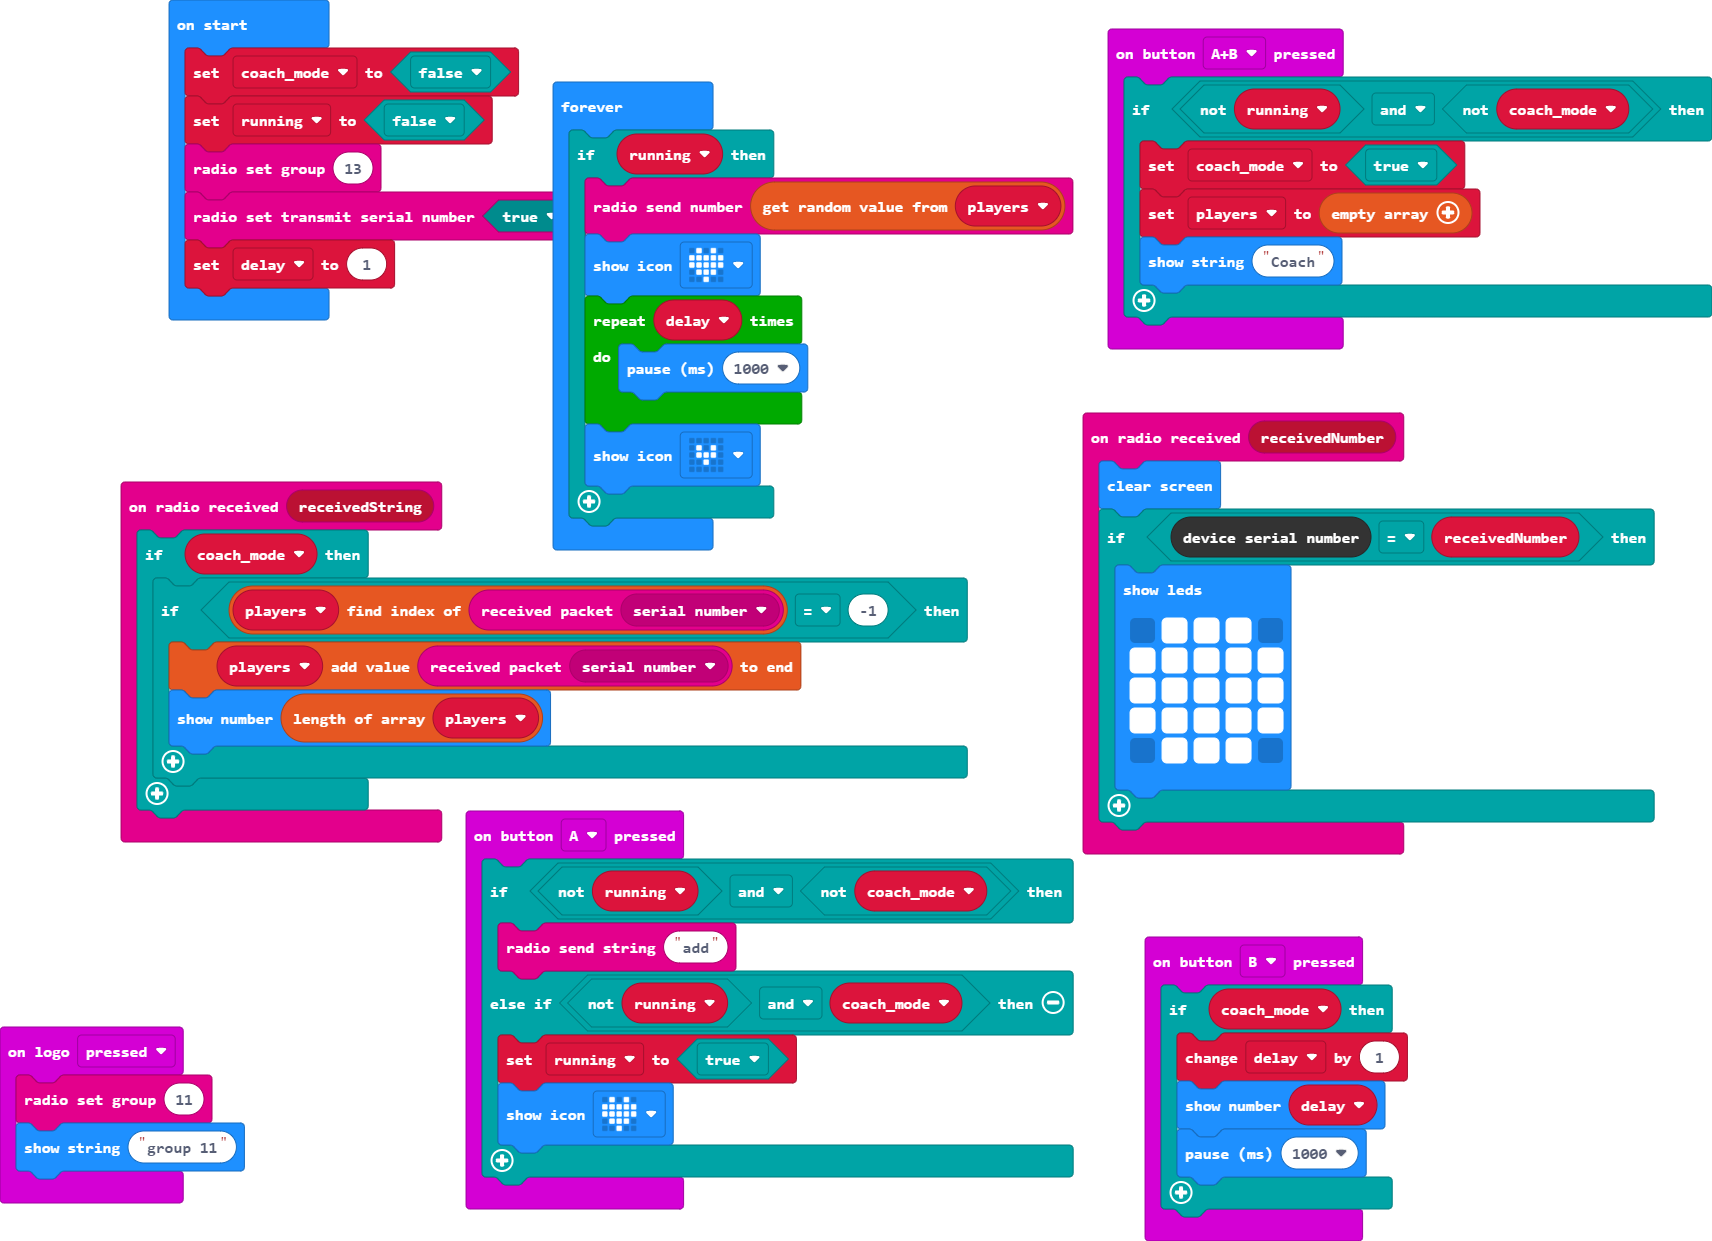
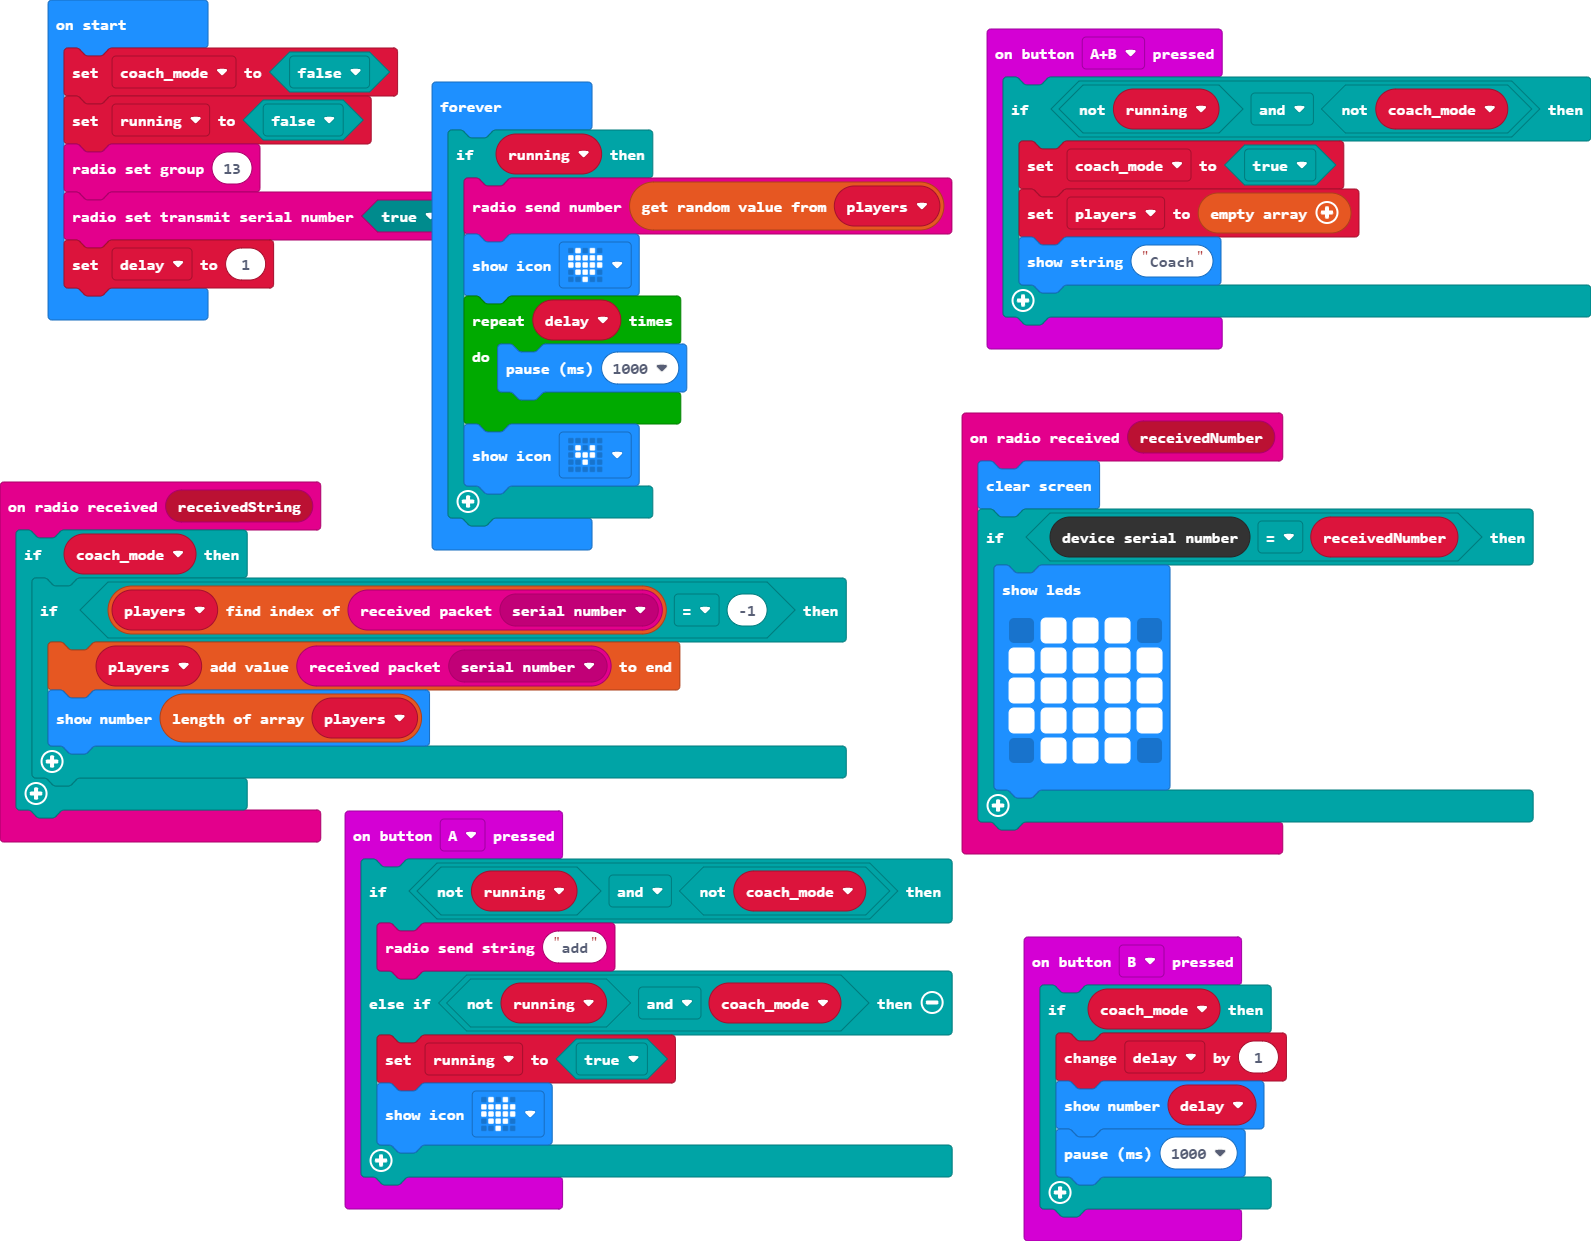
Update main.blocks, main.ts

Changed region(s): [[0.0, 0.0, 0.9855, 1.0], [0.0, 0.8268, 0.154, 0.9799], [0.8008, 0.643, 0.8316, 0.7043]]

diff --git a/main.ts b/main.ts
@@ -40,10 +40,6 @@ input.onButtonPressed(Button.B, function () {
         basic.pause(1000)
     }
 })
-input.onLogoEvent(TouchButtonEvent.Pressed, function () {
-    radio.setGroup(11)
-    basic.showString("group 11")
-})
 let players: number[] = []
 let delay = 0
 let running = false
